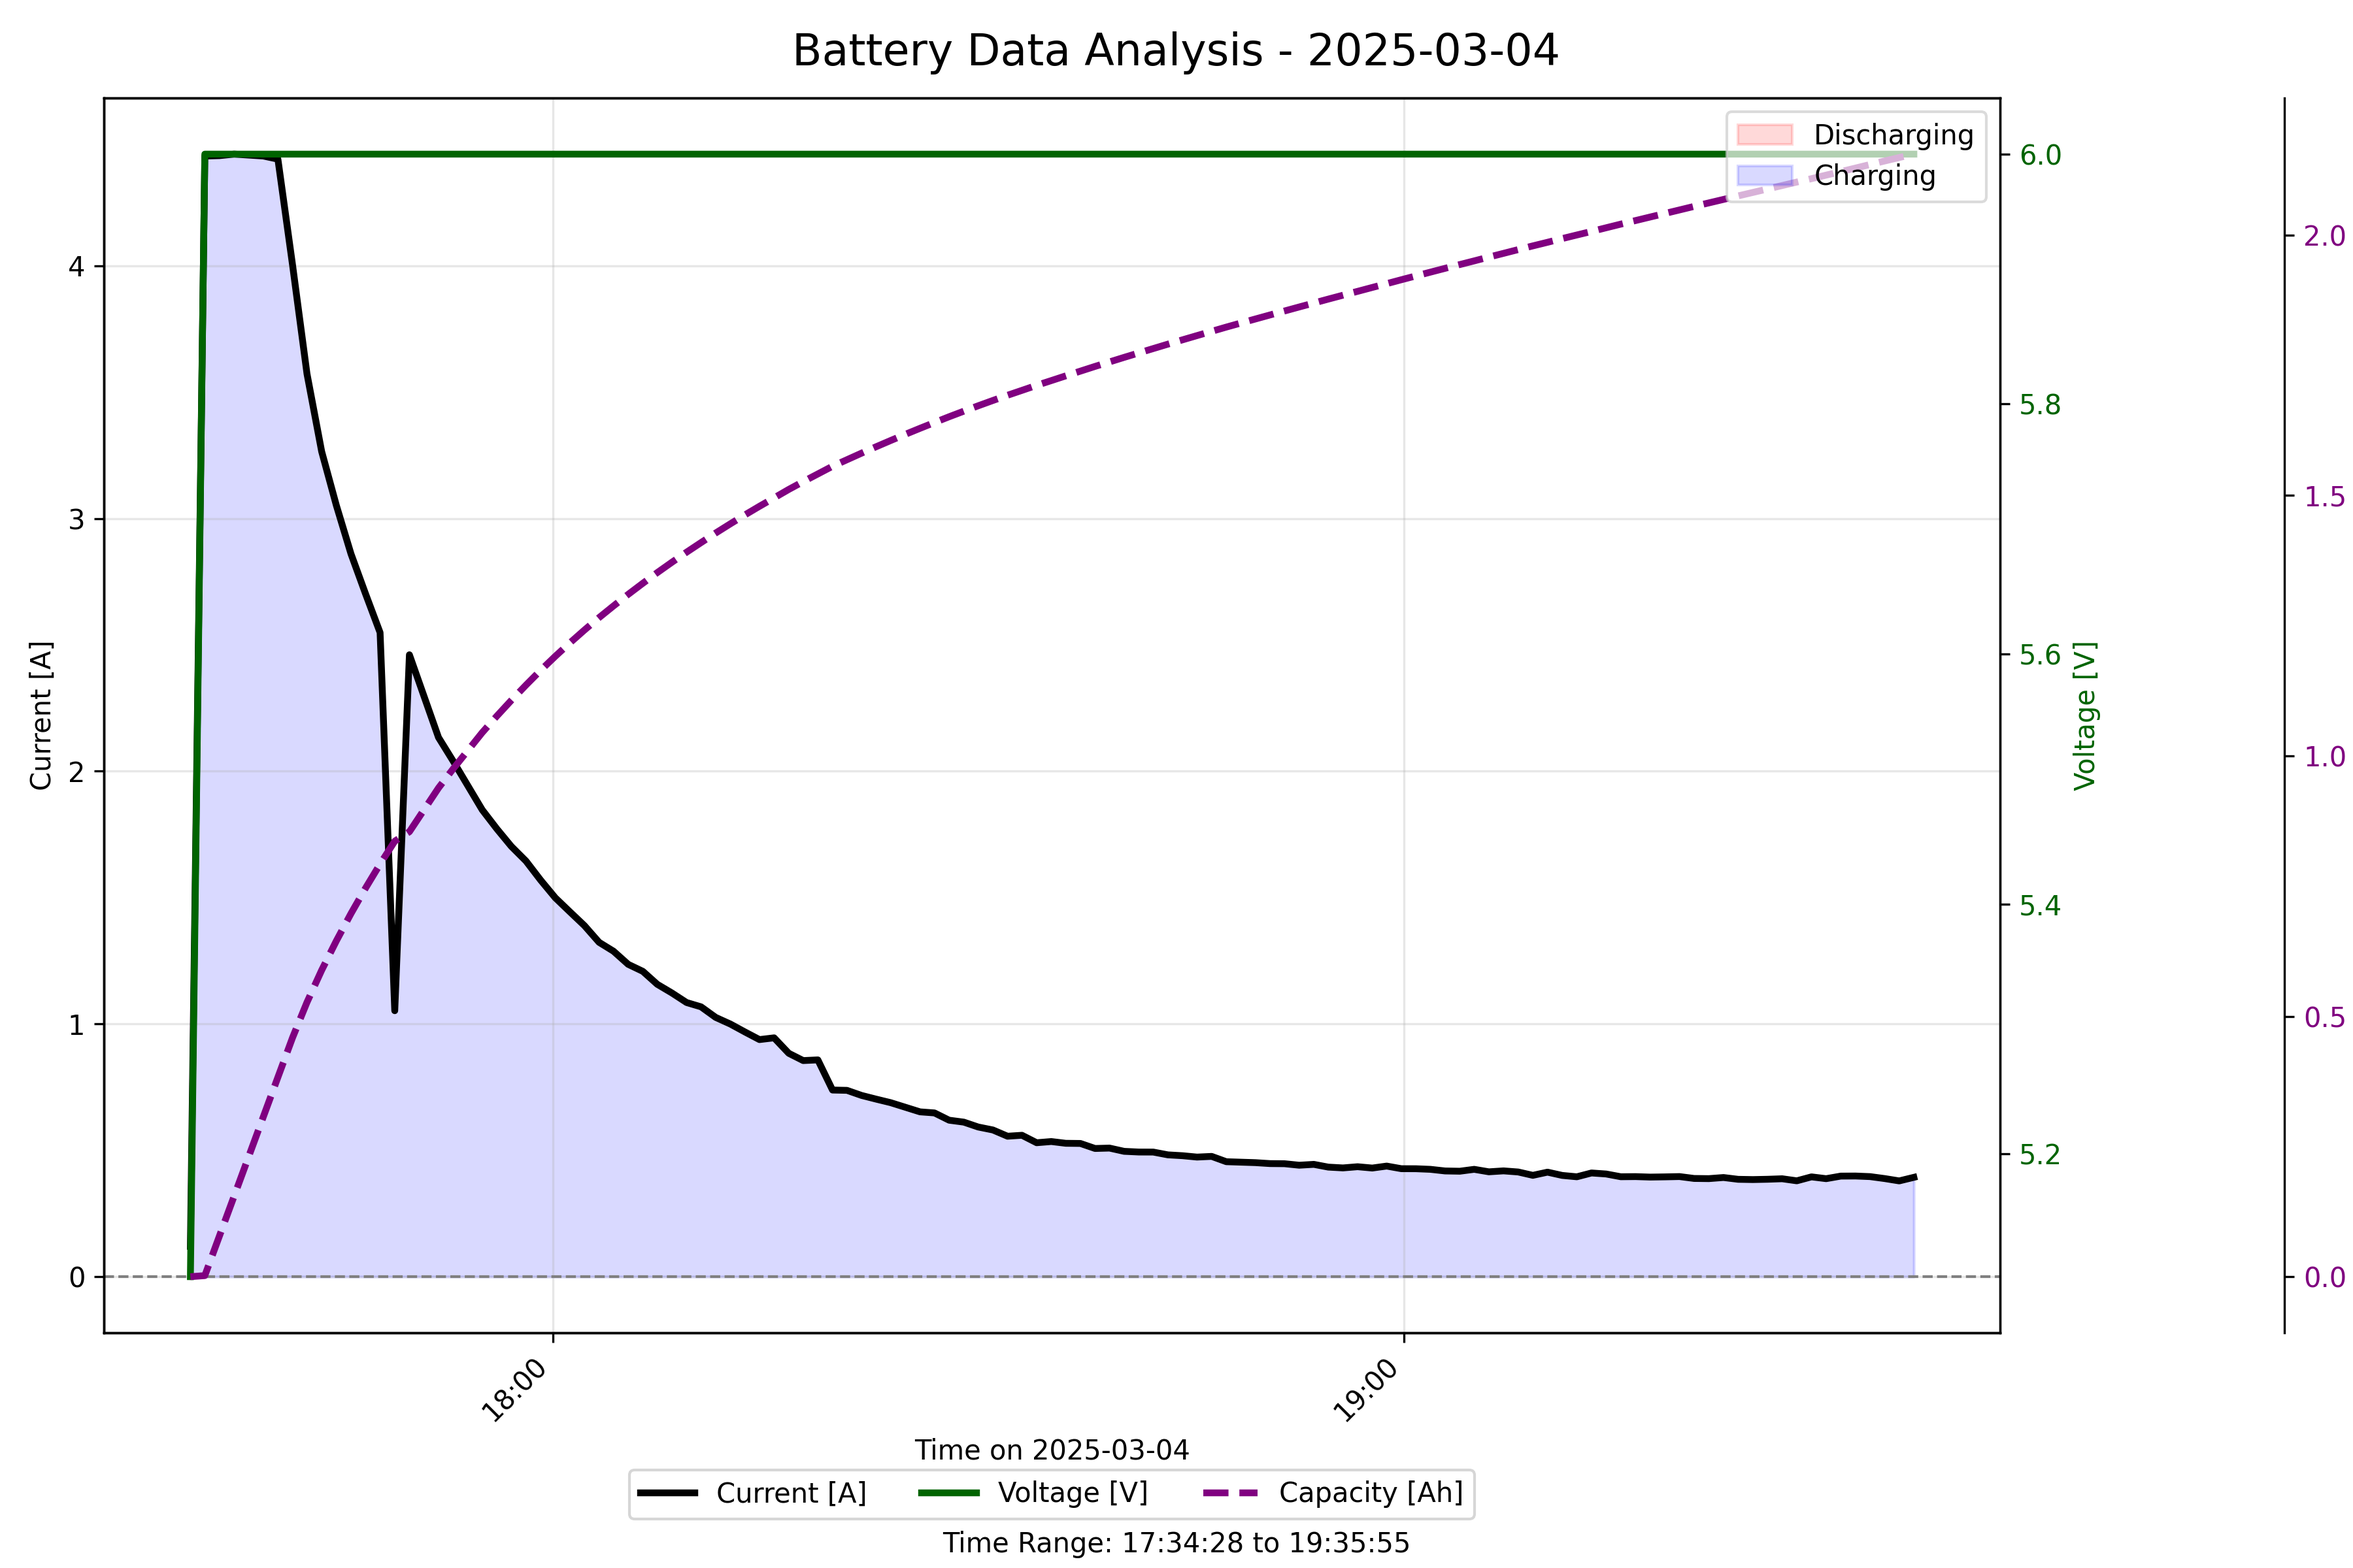
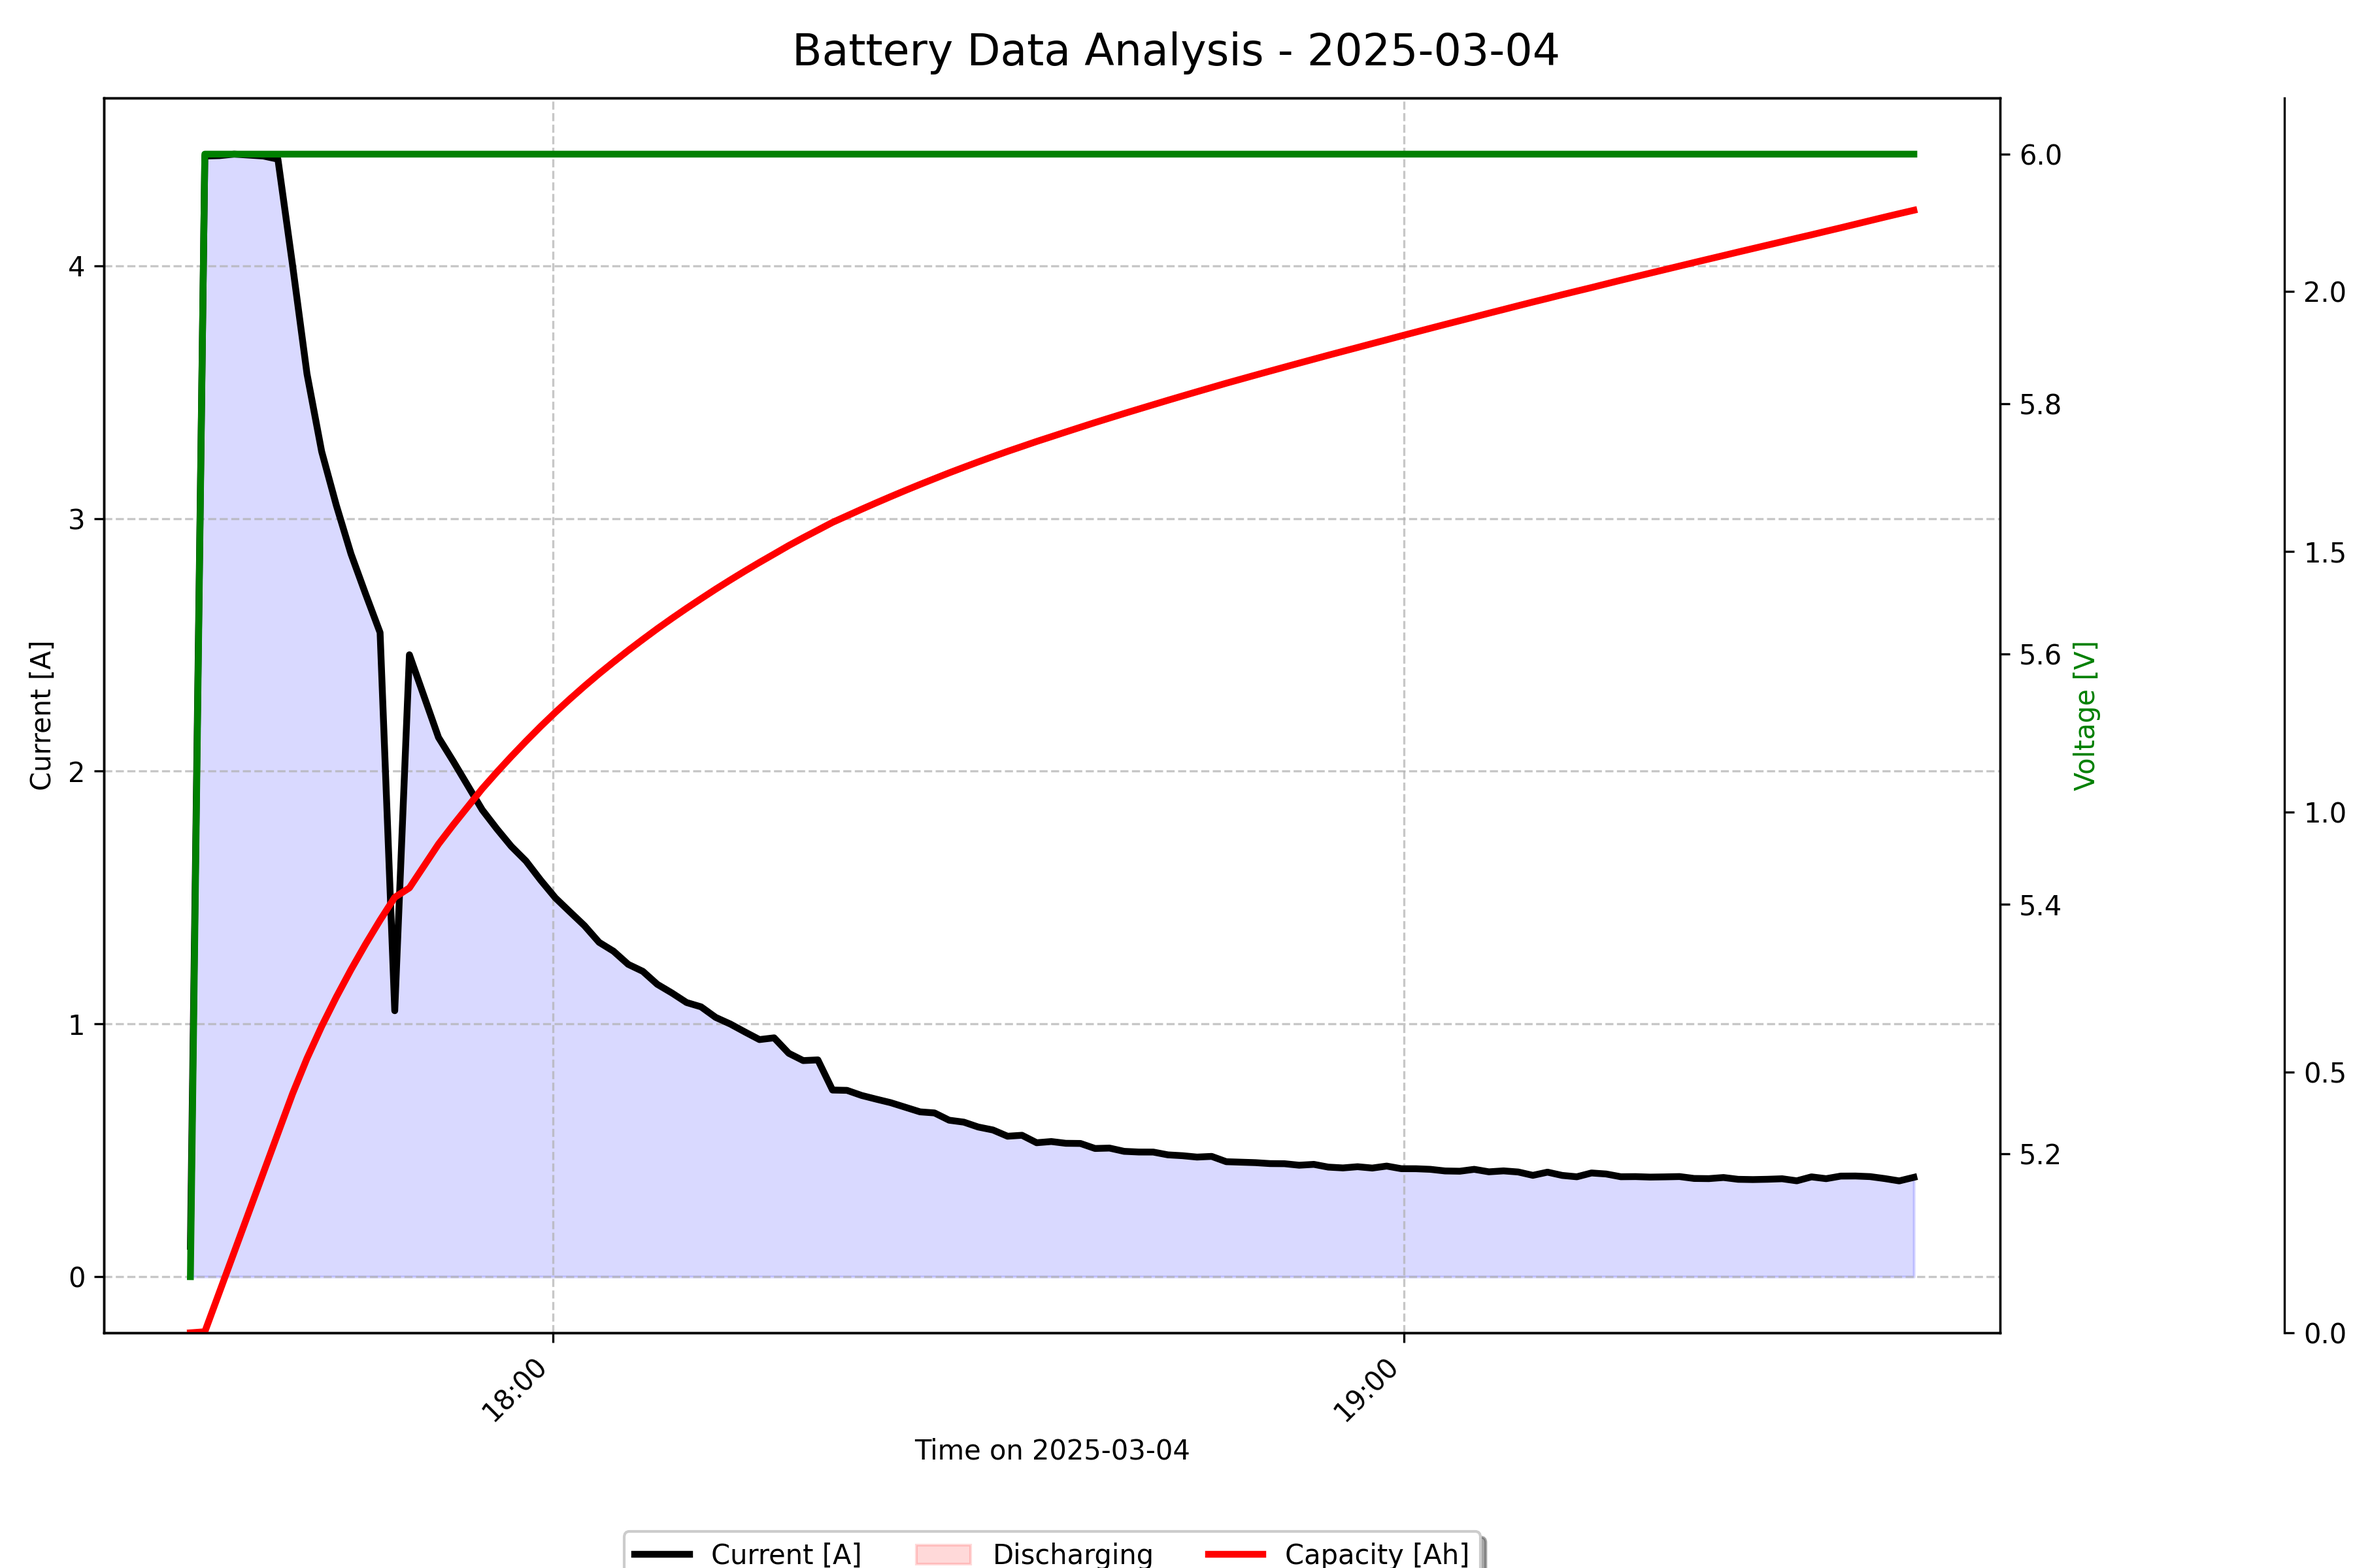
better plotting stability with correct file name and search implementation

diff --git a/visualization/Volts_vs_Amps.py b/visualization/Volts_vs_Amps.py
@@ -75,27 +75,96 @@ def find_date_directories(base_dir="visualization/files"):
 
 def load_data_from_directory(dir_path, reference_date):
     """
-    Loads voltage and current data from Amps.txt and Volts.txt in the specified directory.
+    Loads voltage and current data from "Amps YYYY-MM-DD.txt" and "Volts YYYY-MM-DD.txt" in the specified directory.
     Applies the reference date to timestamps for plotting.
     """
-    amps_file = os.path.join(dir_path, "Amps.txt")
-    volts_file = os.path.join(dir_path, "Volts.txt")
+    date_str = reference_date.strftime("%Y-%m-%d")
     
-    if not os.path.exists(amps_file):
-        raise FileNotFoundError(f"Current data file not found: {amps_file}")
+    # Check for Amps file in the directory
+    amps_file = os.path.join(dir_path, f"Amps {date_str}.txt")
+    amps_found = os.path.exists(amps_file)
     
-    if not os.path.exists(volts_file):
-        raise FileNotFoundError(f"Voltage data file not found: {volts_file}")
+    if not amps_found:
+        fallback_amps = os.path.join(dir_path, "Amps.txt")
+        if os.path.exists(fallback_amps):
+            print(f"Using fallback file: {fallback_amps}")
+            amps_file = fallback_amps
+            amps_found = True
+        else:
+            # Try to find in parent directory
+            parent_dir = os.path.dirname(dir_path)
+            parent_amps = os.path.join(parent_dir, f"Amps {date_str}.txt")
+            if os.path.exists(parent_amps):
+                print(f"Using file from parent directory: {parent_amps}")
+                amps_file = parent_amps
+                amps_found = True
     
-    # Read current data
-    amps_timestamps, amps_values = read_data_file(amps_file)
+    # Check for Volts file in the directory
+    volts_file = os.path.join(dir_path, f"Volts {date_str}.txt")
+    volts_found = os.path.exists(volts_file)
     
-    # Read voltage data
-    volts_timestamps, volts_values = read_data_file(volts_file)
+    if not volts_found:
+        fallback_volts = os.path.join(dir_path, "Volts.txt")
+        if os.path.exists(fallback_volts):
+            print(f"Using fallback file: {fallback_volts}")
+            volts_file = fallback_volts
+            volts_found = True
+        else:
+            # Try to find in parent directory
+            parent_dir = os.path.dirname(dir_path)
+            parent_volts = os.path.join(parent_dir, f"Volts {date_str}.txt")
+            if os.path.exists(parent_volts):
+                print(f"Using file from parent directory: {parent_volts}")
+                volts_file = parent_volts
+                volts_found = True
     
-    # Align the data based on timestamps
-    timestamps, voltages, currents = align_data(amps_timestamps, amps_values, 
-                                               volts_timestamps, volts_values)
+    # Check if at least one file type was found
+    if not amps_found and not volts_found:
+        raise FileNotFoundError(f"No data files found for date {date_str} in directory {dir_path} or parent directory")
+    
+    # Handle case where only one type of file is found
+    timestamps = None
+    voltages = []
+    currents = []
+    
+    # Load amps data if available
+    if amps_found:
+        print(f"Loading current data from: {amps_file}")
+        amps_timestamps, amps_values = read_data_file(amps_file)
+        if timestamps is None:
+            timestamps = amps_timestamps
+        currents = amps_values
+    else:
+        print(f"Warning: No current data file found for date {date_str}")
+        amps_timestamps = []
+        amps_values = []
+    
+    # Load volts data if available
+    if volts_found:
+        print(f"Loading voltage data from: {volts_file}")
+        volts_timestamps, volts_values = read_data_file(volts_file)
+        if timestamps is None:
+            timestamps = volts_timestamps
+        voltages = volts_values
+    else:
+        print(f"Warning: No voltage data file found for date {date_str}")
+        volts_timestamps = []
+        volts_values = []
+    
+    # If both files are present, align the data
+    if amps_found and volts_found:
+        timestamps, voltages, currents = align_data(amps_timestamps, amps_values, 
+                                                  volts_timestamps, volts_values)
+    elif amps_found:
+        # Only amps data available
+        timestamps = amps_timestamps
+        currents = amps_values
+        voltages = [0] * len(timestamps)  # Placeholder zeros for missing voltage data
+    elif volts_found:
+        # Only volts data available
+        timestamps = volts_timestamps
+        voltages = volts_values
+        currents = [0] * len(timestamps)  # Placeholder zeros for missing current data
     
     # Apply reference date to timestamps
     dated_timestamps = []
@@ -110,9 +179,19 @@ def load_data_from_directory(dir_path, reference_date):
 def align_data(amps_timestamps, amps_values, volts_timestamps, volts_values):
     """
     Aligns current and voltage data based on timestamps.
-    Returns synchronized timestamps, voltages, and currents.
+    Returns common timestamps and corresponding values.
+    Handles cases where one of the data arrays might be empty.
     """
-    # Create a mapping of timestamps to values
+    # Handle special cases where one dataset might be empty
+    if not amps_timestamps or not amps_values:
+        print("Warning: No current data available for alignment")
+        return volts_timestamps, volts_values, [0] * len(volts_values)
+    
+    if not volts_timestamps or not volts_values:
+        print("Warning: No voltage data available for alignment")
+        return amps_timestamps, [0] * len(amps_values), amps_values
+    
+    # Create mappings of timestamp to value for easy lookup
     amps_map = {}
     for i, ts in enumerate(amps_timestamps):
         if i < len(amps_values):
@@ -185,62 +264,88 @@ def plot_combined_data(timestamps, voltages, currents, capacity_values, plot_dat
     ax1.xaxis.set_major_formatter(formatter)
     ax1.xaxis.set_major_locator(mdates.HourLocator())
     
-    # Plot 1: Current over time (primary y-axis)
+    # Check if we have current data (not all zeros)
+    has_current_data = any(abs(current) > 0.001 for current in currents)
+    
+    # Plot 1: Current over time (primary y-axis) if data exists
     color_current = 'black'
     ax1.set_xlabel(f"Time on {plot_date.strftime('%Y-%m-%d')}")
     ax1.set_ylabel("Current [A]", color=color_current)
-    ax1.plot(timestamps, currents, color=color_current, linewidth=2.5, label='Current [A]')
     
-    # Fill between to highlight charging/discharging areas
-    ax1.fill_between(timestamps, currents, 0, where=(np.array(currents) >= 0), 
-                  interpolate=True, color='blue', alpha=0.15, label='Charging')
-    ax1.fill_between(timestamps, currents, 0, where=(np.array(currents) < 0), 
-                  interpolate=True, color='red', alpha=0.15, label='Discharging')
+    if has_current_data:
+        ax1.plot(timestamps, currents, color=color_current, linewidth=2.5, label='Current [A]')
+        
+        # Fill between to highlight charging/discharging areas
+        ax1.fill_between(timestamps, currents, 0, where=(np.array(currents) >= 0), 
+                      interpolate=True, color='blue', alpha=0.15, label='Charging')
+        ax1.fill_between(timestamps, currents, 0, where=(np.array(currents) < 0), 
+                      interpolate=True, color='red', alpha=0.15, label='Discharging')
+    else:
+        print("Warning: No current data to plot")
     
-    # Add a horizontal line at 0 for reference
-    ax1.axhline(0, color='gray', linestyle='--', linewidth=1)
-    ax1.tick_params(axis='y', labelcolor=color_current)
+    # Check if we have voltage data (not all zeros)
+    has_voltage_data = any(abs(voltage) > 0.001 for voltage in voltages)
     
-    # Create second y-axis for voltage
+    # Create second y-axis and plot voltage
     ax2 = ax1.twinx()
-    color_voltage = 'darkgreen'
+    color_voltage = 'green'
     ax2.set_ylabel("Voltage [V]", color=color_voltage)
-    ax2.plot(timestamps, voltages, color=color_voltage, linewidth=2.5, label='Voltage [V]')
-    ax2.tick_params(axis='y', labelcolor=color_voltage)
     
-    # Create third y-axis for capacity (by offsetting the second axis)
-    ax3 = ax1.twinx()
-    # Move the third axis to the right
-    ax3.spines["right"].set_position(("axes", 1.15))
-    color_capacity = 'purple'
-    ax3.set_ylabel("Capacity [Ah]", color=color_capacity)
-    ax3.plot(timestamps, capacity_values, color=color_capacity, linestyle='--', linewidth=2.5, label='Capacity [Ah]')
-    ax3.tick_params(axis='y', labelcolor=color_capacity)
+    if has_voltage_data:
+        ax2.plot(timestamps, voltages, color=color_voltage, linewidth=2.5, label='Voltage [V]')
+    else:
+        print("Warning: No voltage data to plot")
     
-    # Add grid (but only for the main axis)
-    ax1.grid(True, alpha=0.3)
+    # Create third y-axis and plot capacity
+    # Only proceed if we have current data to calculate capacity
+    if has_current_data:
+        # Offset third y-axis to the right
+        ax3 = ax1.twinx()
+        ax3.spines["right"].set_position(("axes", 1.15))
+        
+        color_capacity = 'red'
+        ax3.set_ylabel("Capacity [Ah]", color=color_capacity)
+        ax3.plot(timestamps, capacity_values, color=color_capacity, linewidth=2.5, label='Capacity [Ah]')
+        
+        # Set the y-limit for capacity to start from 0
+        ax3.set_ylim(0, max(capacity_values) * 1.1 if max(capacity_values) > 0 else 1)
     
-    # Create a combined legend
+    # Create combined legend
     lines1, labels1 = ax1.get_legend_handles_labels()
-    lines2, labels2 = ax2.get_legend_handles_labels()
-    lines3, labels3 = ax3.get_legend_handles_labels()
     
-    # Filter out the fill_between labels to avoid duplication
-    filtered_lines1 = [lines1[0]]  # Only keep the first line (Current)
-    filtered_labels1 = [labels1[0]]
+    if has_voltage_data:
+        lines2, labels2 = ax2.get_legend_handles_labels()
+    else:
+        lines2, labels2 = [], []
     
-    ax1.legend(filtered_lines1 + lines2 + lines3, filtered_labels1 + labels2 + labels3, 
-              loc='upper center', bbox_to_anchor=(0.5, -0.10), ncol=3, frameon=True)
+    if has_current_data:
+        lines3, labels3 = ax3.get_legend_handles_labels() if 'ax3' in locals() else ([], [])
+    else:
+        lines3, labels3 = [], []
     
-    # Add time range annotation
-    time_range_text = f"Time Range: {timestamps[0].strftime('%H:%M:%S')} to {timestamps[-1].strftime('%H:%M:%S')}"
-    plt.figtext(0.5, 0.01, time_range_text, ha='center', fontsize=10)
+    # Combine only non-empty legend elements
+    all_lines = []
+    all_labels = []
     
-    # Add charging/discharging legend separately
-    charge_patch = plt.Rectangle((0, 0), 1, 1, color='red', alpha=0.15)
-    discharge_patch = plt.Rectangle((0, 0), 1, 1, color='blue', alpha=0.15)
-    plt.legend([charge_patch, discharge_patch], ['Discharging', 'Charging'], 
-              loc='upper right', framealpha=0.7)
+    if lines1:
+        all_lines.extend(lines1)
+        all_labels.extend(labels1)
+    
+    if lines2:
+        all_lines.extend(lines2)
+        all_labels.extend(labels2)
+    
+    if lines3:
+        all_lines.extend(lines3)
+        all_labels.extend(labels3)
+    
+    # Only create a legend if we have items for it
+    if all_lines:
+        ax1.legend(all_lines, all_labels, loc='upper center', bbox_to_anchor=(0.5, -0.15), 
+                ncol=3, fancybox=True, shadow=True)
+    
+    # Add grid
+    ax1.grid(True, linestyle='--', alpha=0.7)
     
     # Rotate x-axis labels for better readability
     plt.setp(ax1.get_xticklabels(), rotation=45, ha='right')
